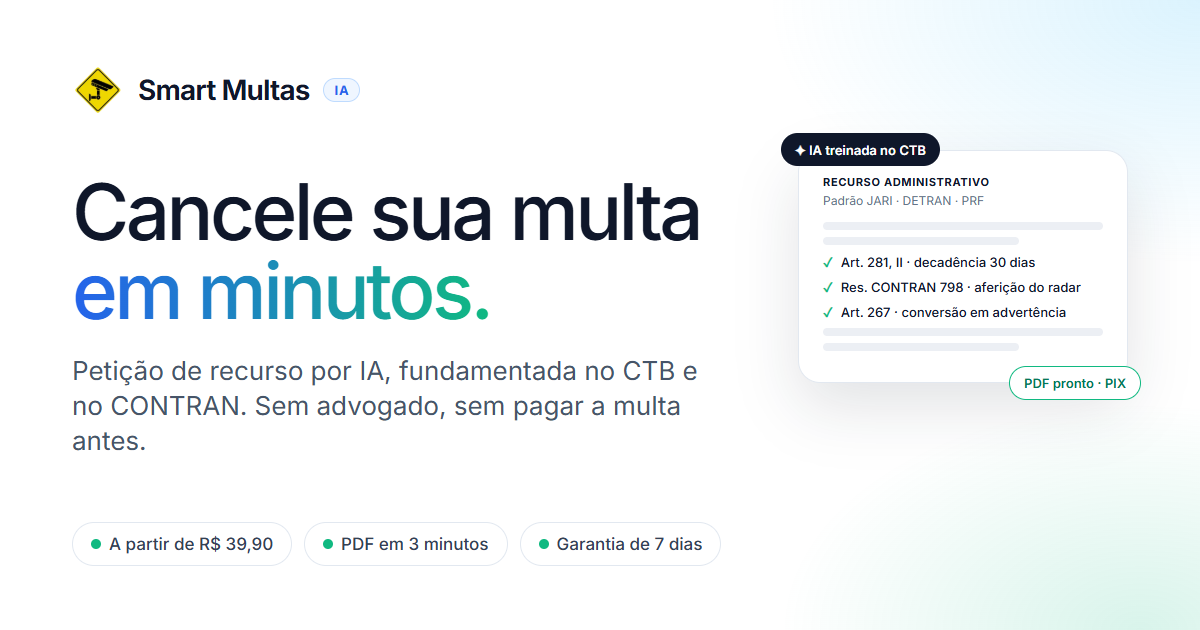
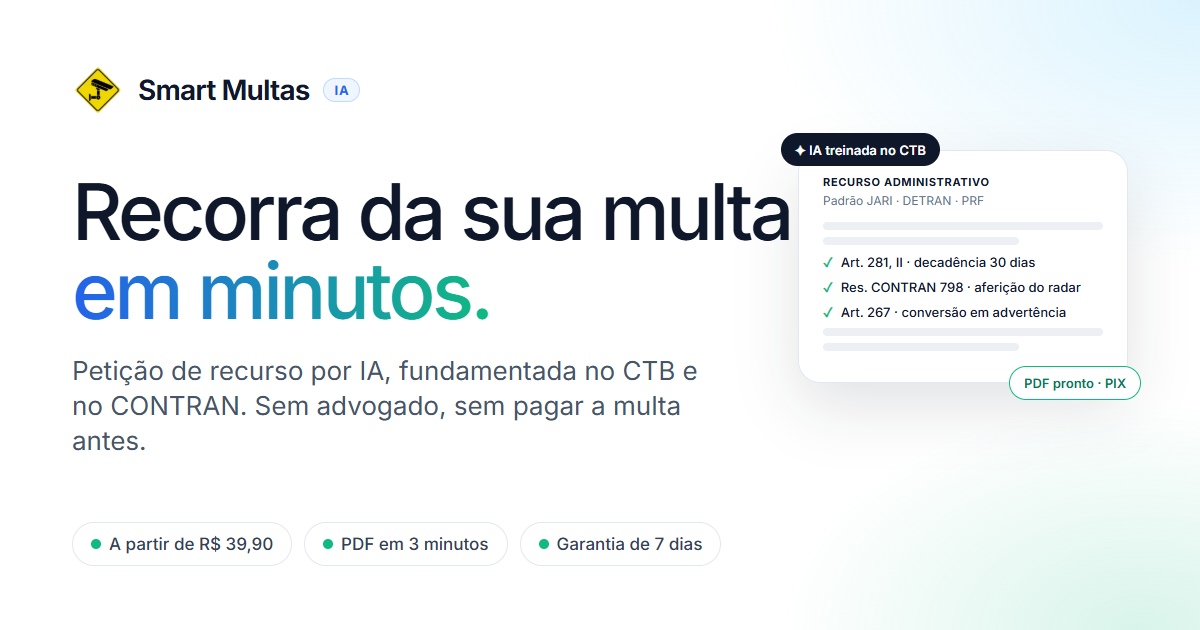
Copy: H1 'Recorra da sua multa', documentos do passo 2, pontos sem promessa de anulação; OG image regerada

Changed region(s): [[0.0617, 0.2714, 0.6783, 0.3921]]

diff --git a/index.html b/index.html
@@ -14,7 +14,7 @@
   <link rel="preload" href="assets/fonts/inter-latin.woff2" as="font" type="font/woff2" crossorigin>
   <link rel="stylesheet" href="css/style.css">
   <meta property="og:title" content="Smart Multas | Recurso de multa de trânsito com IA">
-  <meta property="og:description" content="Cancele sua multa em minutos. Petição por IA a partir de R$ 39,90, sem advogado e sem pagar a multa antes.">
+  <meta property="og:description" content="Recorra da sua multa em minutos. Petição por IA a partir de R$ 39,90, sem advogado e sem pagar a multa antes.">
   <meta property="og:type" content="website">
   <meta property="og:url" content="https://smartmultas.com.br/">
   <meta property="og:site_name" content="Smart Multas">
@@ -25,7 +25,7 @@
   <meta property="og:image:alt" content="Smart Multas, recurso de multa de trânsito com IA">
   <meta name="twitter:card" content="summary_large_image">
   <meta name="twitter:title" content="Smart Multas | Recurso de multa de trânsito com IA">
-  <meta name="twitter:description" content="Cancele sua multa em minutos. Petição por IA a partir de R$ 39,90, sem advogado e sem pagar a multa antes.">
+  <meta name="twitter:description" content="Recorra da sua multa em minutos. Petição por IA a partir de R$ 39,90, sem advogado e sem pagar a multa antes.">
   <meta name="twitter:image" content="https://smartmultas.com.br/assets/og-image.png">
   <meta name="referrer" content="strict-origin-when-cross-origin">
   <script type="application/ld+json">
@@ -289,7 +289,7 @@
   <section class="hero">
     <div class="container">
       <div class="hero-grid">
-        <h1><span class="dia" data-dia data-dia-autoplay>Cancele sua multa <br>em minutos.</span></h1>
+        <h1><span class="dia" data-dia data-dia-autoplay>Recorra da sua multa <br>em minutos.</span></h1>
         <div class="hero-aside">
           <p>Petição de recurso gerada por IA e fundamentada no CTB e nas resoluções do CONTRAN. Sem advogado e <span class="mk" data-marker="highlight">sem pagar a multa antes</span>: você responde perguntas rápidas, paga no PIX e baixa o PDF pronto para protocolar.</p>
           <div class="hero-micro">
@@ -591,7 +591,7 @@
 
       <div class="process reveal">
         <div class="proc-step"><div class="proc-num">01 · DEPOIS DO PDF</div><h3>Assine a petição</h3><p>Imprima e assine o PDF. Se preferir, contrate o protocolo e a equipe cuida disso.</p></div>
-        <div class="proc-step"><div class="proc-num">02</div><h3>Anexe os documentos</h3><p>CNH, CRLV e a notificação da autuação acompanham o recurso.</p></div>
+        <div class="proc-step"><div class="proc-num">02</div><h3>Anexe os documentos</h3><p>CNH, CRLV, autuação e documentos comprobatórios acompanham o recurso.</p></div>
         <div class="proc-step"><div class="proc-num">03</div><h3>Protocole no órgão</h3><p>Presencial, pelo portal do DETRAN ou pelos Correios com AR. As instruções vão no PDF.</p></div>
       </div>
     </div>
@@ -630,7 +630,7 @@
               <td>Pontos na CNH</td>
               <td><span class="c-cell"><svg class="ic c-no" width="16" height="16"><use href="#i-x"/></svg> Até 7 pontos (risco de suspensão)</span></td>
               <td><span class="c-cell"><svg class="ic c-mid" width="16" height="16"><use href="#i-minus"/></svg> Pode evitar</span></td>
-              <td class="c-sm"><span class="c-cell"><svg class="ic c-yes" width="16" height="16"><use href="#i-check-c"/></svg> Defesa para anular os pontos</span></td>
+              <td class="c-sm"><span class="c-cell"><svg class="ic c-yes" width="16" height="16"><use href="#i-check-c"/></svg> Defesa técnica para contestar os pontos</span></td>
             </tr>
             <tr>
               <td>Tempo de elaboração</td>
@@ -755,7 +755,7 @@
       <div class="testi-grid reveal">
         <div class="testi-card">
           <h3>Não aceite pagar uma multa sem recorrer.</h3>
-          <p>Recorrer é um direito garantido pela Constituição (art. 5º, LV) e pelo CTB (arts. 282, 284 e 286). Enquanto o recurso tramita, a multa não é cobrada e os pontos não entram na CNH.</p>
+          <p>Recorrer é um direito garantido pela Constituição (art. 5º, LV) e pelo CTB (arts. 282, 284 e 286). Enquanto o recurso tramita, a multa não é cobrada e a pontuação depende da decisão do órgão.</p>
           <ul class="testi-list">
             <li><svg class="ic" width="15" height="15"><use href="#i-check"/></svg> Efeito suspensivo durante o recurso</li>
             <li><svg class="ic" width="15" height="15"><use href="#i-check"/></svg> Sem exigência de pagamento prévio</li>

diff --git a/app/app.js b/app/app.js
@@ -147,7 +147,7 @@
     if (a.q_radar === 'fixo' || a.q_radar === 'movel') t.push({ law: 'Resolução CONTRAN 798/20', title: 'Aferição do radar pelo INMETRO', desc: 'Pedido de juntada do laudo de verificação metrológica válido nos últimos 12 meses e da margem de erro aplicada. Sem laudo, a medição é nula.' });
     if (a.q_sign === 'nao' || a.q_sign === 'ns') t.push({ law: 'Art. 280 do CTB', title: 'Sinalização irregular ou ausente', desc: 'A autuação depende de sinalização regulamentar visível no local. Pedido de comprovação da sinalização e de anulação na sua falta.' });
     t.push({ law: 'Art. 280 do CTB', title: 'Requisitos formais do auto de infração', desc: 'Verificação de local, data e hora, identificação do veículo, do agente e do órgão. Vício insanável anula o procedimento.' });
-    t.push({ law: 'Arts. 284 e 286 do CTB · CF, art. 5º, LV', title: 'Defesa sem pagamento prévio', desc: 'Garantia do contraditório e da ampla defesa: o recurso não exige a quitação da multa e suspende a pontuação até a decisão.' });
+    t.push({ law: 'Arts. 284 e 286 do CTB · CF, art. 5º, LV', title: 'Defesa sem pagamento prévio', desc: 'Garantia do contraditório e da ampla defesa: o recurso não exige a quitação da multa; a pontuação depende da decisão do órgão.' });
     return t;
   }
   function runAnalysis() {

diff --git a/css/style.css b/css/style.css
@@ -85,7 +85,7 @@ button { font-family: inherit; border: none; background: none; cursor: pointer; 
 
 /* ---------------- tipografia ---------------- */
 h1, h2, h3, h4 { font-weight: 500; letter-spacing: -0.03em; line-height: 1.08; }
-h1 { font-size: clamp(42px, 6vw, 72px); letter-spacing: -0.04em; }
+h1 { font-size: clamp(42px, 5.6vw, 66px); letter-spacing: -0.04em; }
 h2 { font-size: clamp(30px, 3.6vw, 46px); }
 h3 { font-size: 24px; }
 
@@ -187,7 +187,7 @@ h3 { font-size: 24px; }
 .hero { padding: calc(var(--header-h) + 64px) 0 56px; }
 .hero-grid {
   display: grid;
-  grid-template-columns: 1.15fr 0.85fr;
+  grid-template-columns: 1.2fr 0.8fr;
   gap: 48px;
   align-items: end;
   margin-bottom: 48px;

diff --git a/docs/08-spec-novo-site.md b/docs/08-spec-novo-site.md
@@ -24,7 +24,7 @@ Botões: `.btn-primary` navy (ink), `.btn-cta` verde (conversão: hero, planos, 
 ## Seções da LP (ordem)
 
 1. Header fixo: logo (placa) + wordmark "Smart Multas" + chip "IA"; nav Como funciona · Por que recorrer · Planos · FAQ; "Entrar"; CTA "Recorrer minha multa".
-2. Hero: H1 "Cancele sua multa em minutos." (text reveal) + aside com marcador em "sem pagar a multa antes" + CTA verde "Recorrer minha multa" + "Ver a IA em ação" + micro-provas (a partir de R$ 39,90 · PDF em 3 minutos · garantia de 7 dias).
+2. Hero: H1 "Recorra da sua multa em minutos." (text reveal; "Cancele" foi trocado em 10/09 para não prometer resultado) + aside com marcador em "sem pagar a multa antes" + CTA verde "Recorrer minha multa" + "Ver a IA em ação" + micro-provas (a partir de R$ 39,90 · PDF em 3 minutos · garantia de 7 dias).
 3. Painel demo com 3 abas: Análise da multa (conversa animada com eventos laterais: brecha identificada, tese aplicada, PDF pronto; respostas rápidas) · Petição gerada (frame do app com o PDF) · Protocolo e status (próximos passos + acompanhamento Defesa prévia → JARI → CETRAN). Chips + nota "dados ilustrativos".
 4. Órgãos: "Válido em todos os órgãos autuadores" (DETRANs, PRF, DNIT, CET/DSV, DER).
 5. Intro "Análise jurídica e petição pronta no mesmo lugar" + diagrama com feixes: Foto da notificação / Código da multa → IA Smart Multas → Teses jurídicas / Petição PDF / Protocolo.
